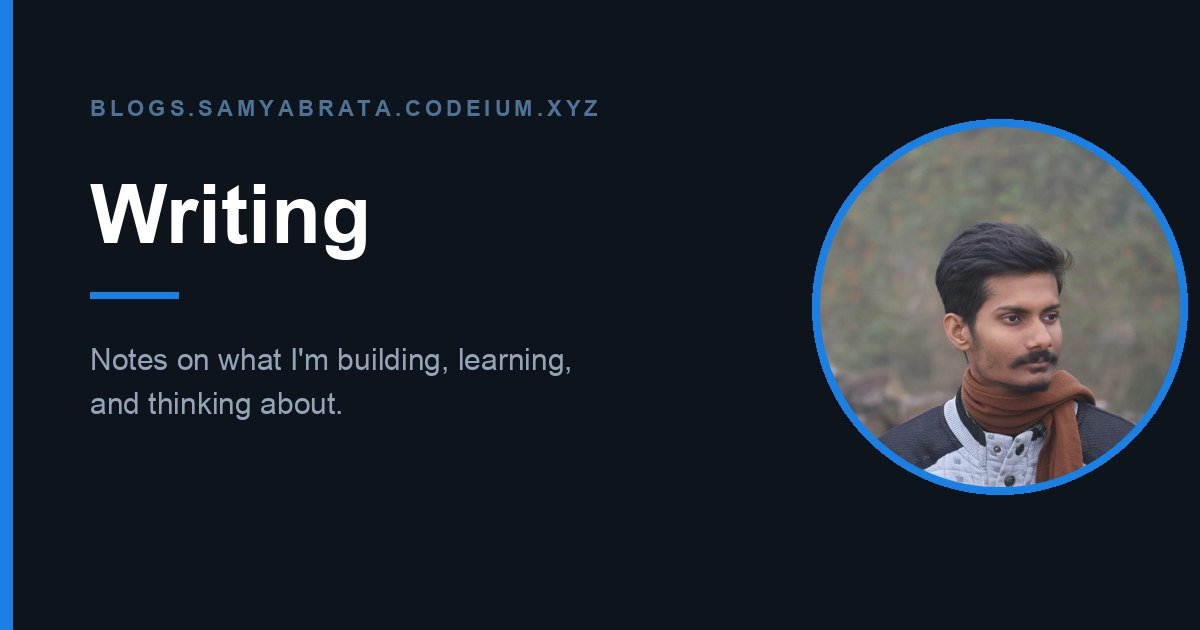
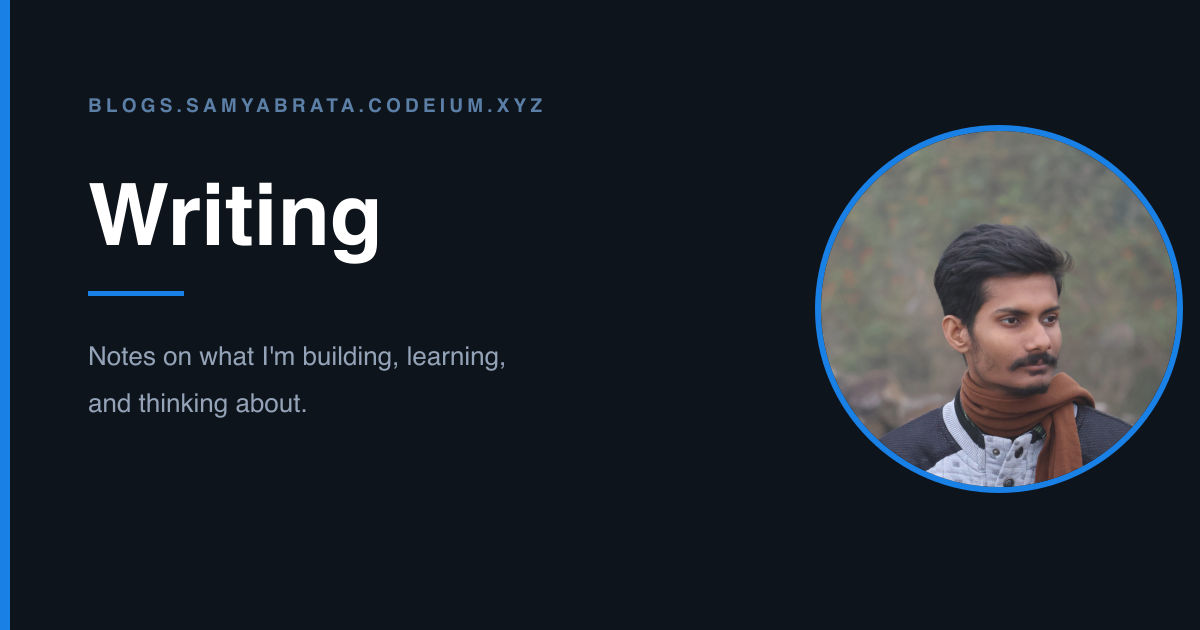
feat: add SEO and Open Graph support with dynamic HTML generation
- Implemented a script to generate Open Graph images for social sharing.
- Created a TypeScript script to build SEO-friendly HTML files for each route, including metadata for search engines and social media.
- Defined route metadata for the application, including titles and descriptions for better search visibility.
- Added a Not Found page with a user-friendly message and navigation back to the home page.

diff --git a/src/router/routes.ts b/src/router/routes.ts
@@ -18,6 +18,8 @@ export interface RouteMetadata {
   description: string
   flagPath?: string | string[]
   flagMode?: 'all' | 'any'
+  /** Runtime/build guard for pages that should exist only on the beta deployment. */
+  betaOnly?: boolean
 }
 
 export const SITE_URL = 'https://samyabrata.codeium.xyz'
@@ -144,6 +146,14 @@ export const routeMetadata: RouteMetadata[] = [
     description:
       'A few quick things you might not know about Samyabrata Roy and how this site is put together.',
     flagPath: 'showFacts',
+  },
+  {
+    path: '/credentials-dashboard',
+    name: 'CredentialsDashboard',
+    title: 'Credentials Dashboard',
+    description:
+      'A beta-only dashboard listing credential entries and available links from the portfolio YAML content.',
+    betaOnly: true,
   },
 ]
 

diff --git a/blogs/index.html b/blogs/index.html
@@ -1,7 +1,6 @@
 <!doctype html>
 <html lang="en">
   <head>
-    <meta name="google-site-verification" content="VdkdaMm2SNFYDfr65uSKqmCPBbl3P_8bH3oVxkSS47w" />
     <meta charset="UTF-8" />
     <meta name="viewport" content="width=device-width, initial-scale=1.0" />
     <meta name="google-site-verification" content="VdkdaMm2SNFYDfr65uSKqmCPBbl3P_8bH3oVxkSS47w" />
